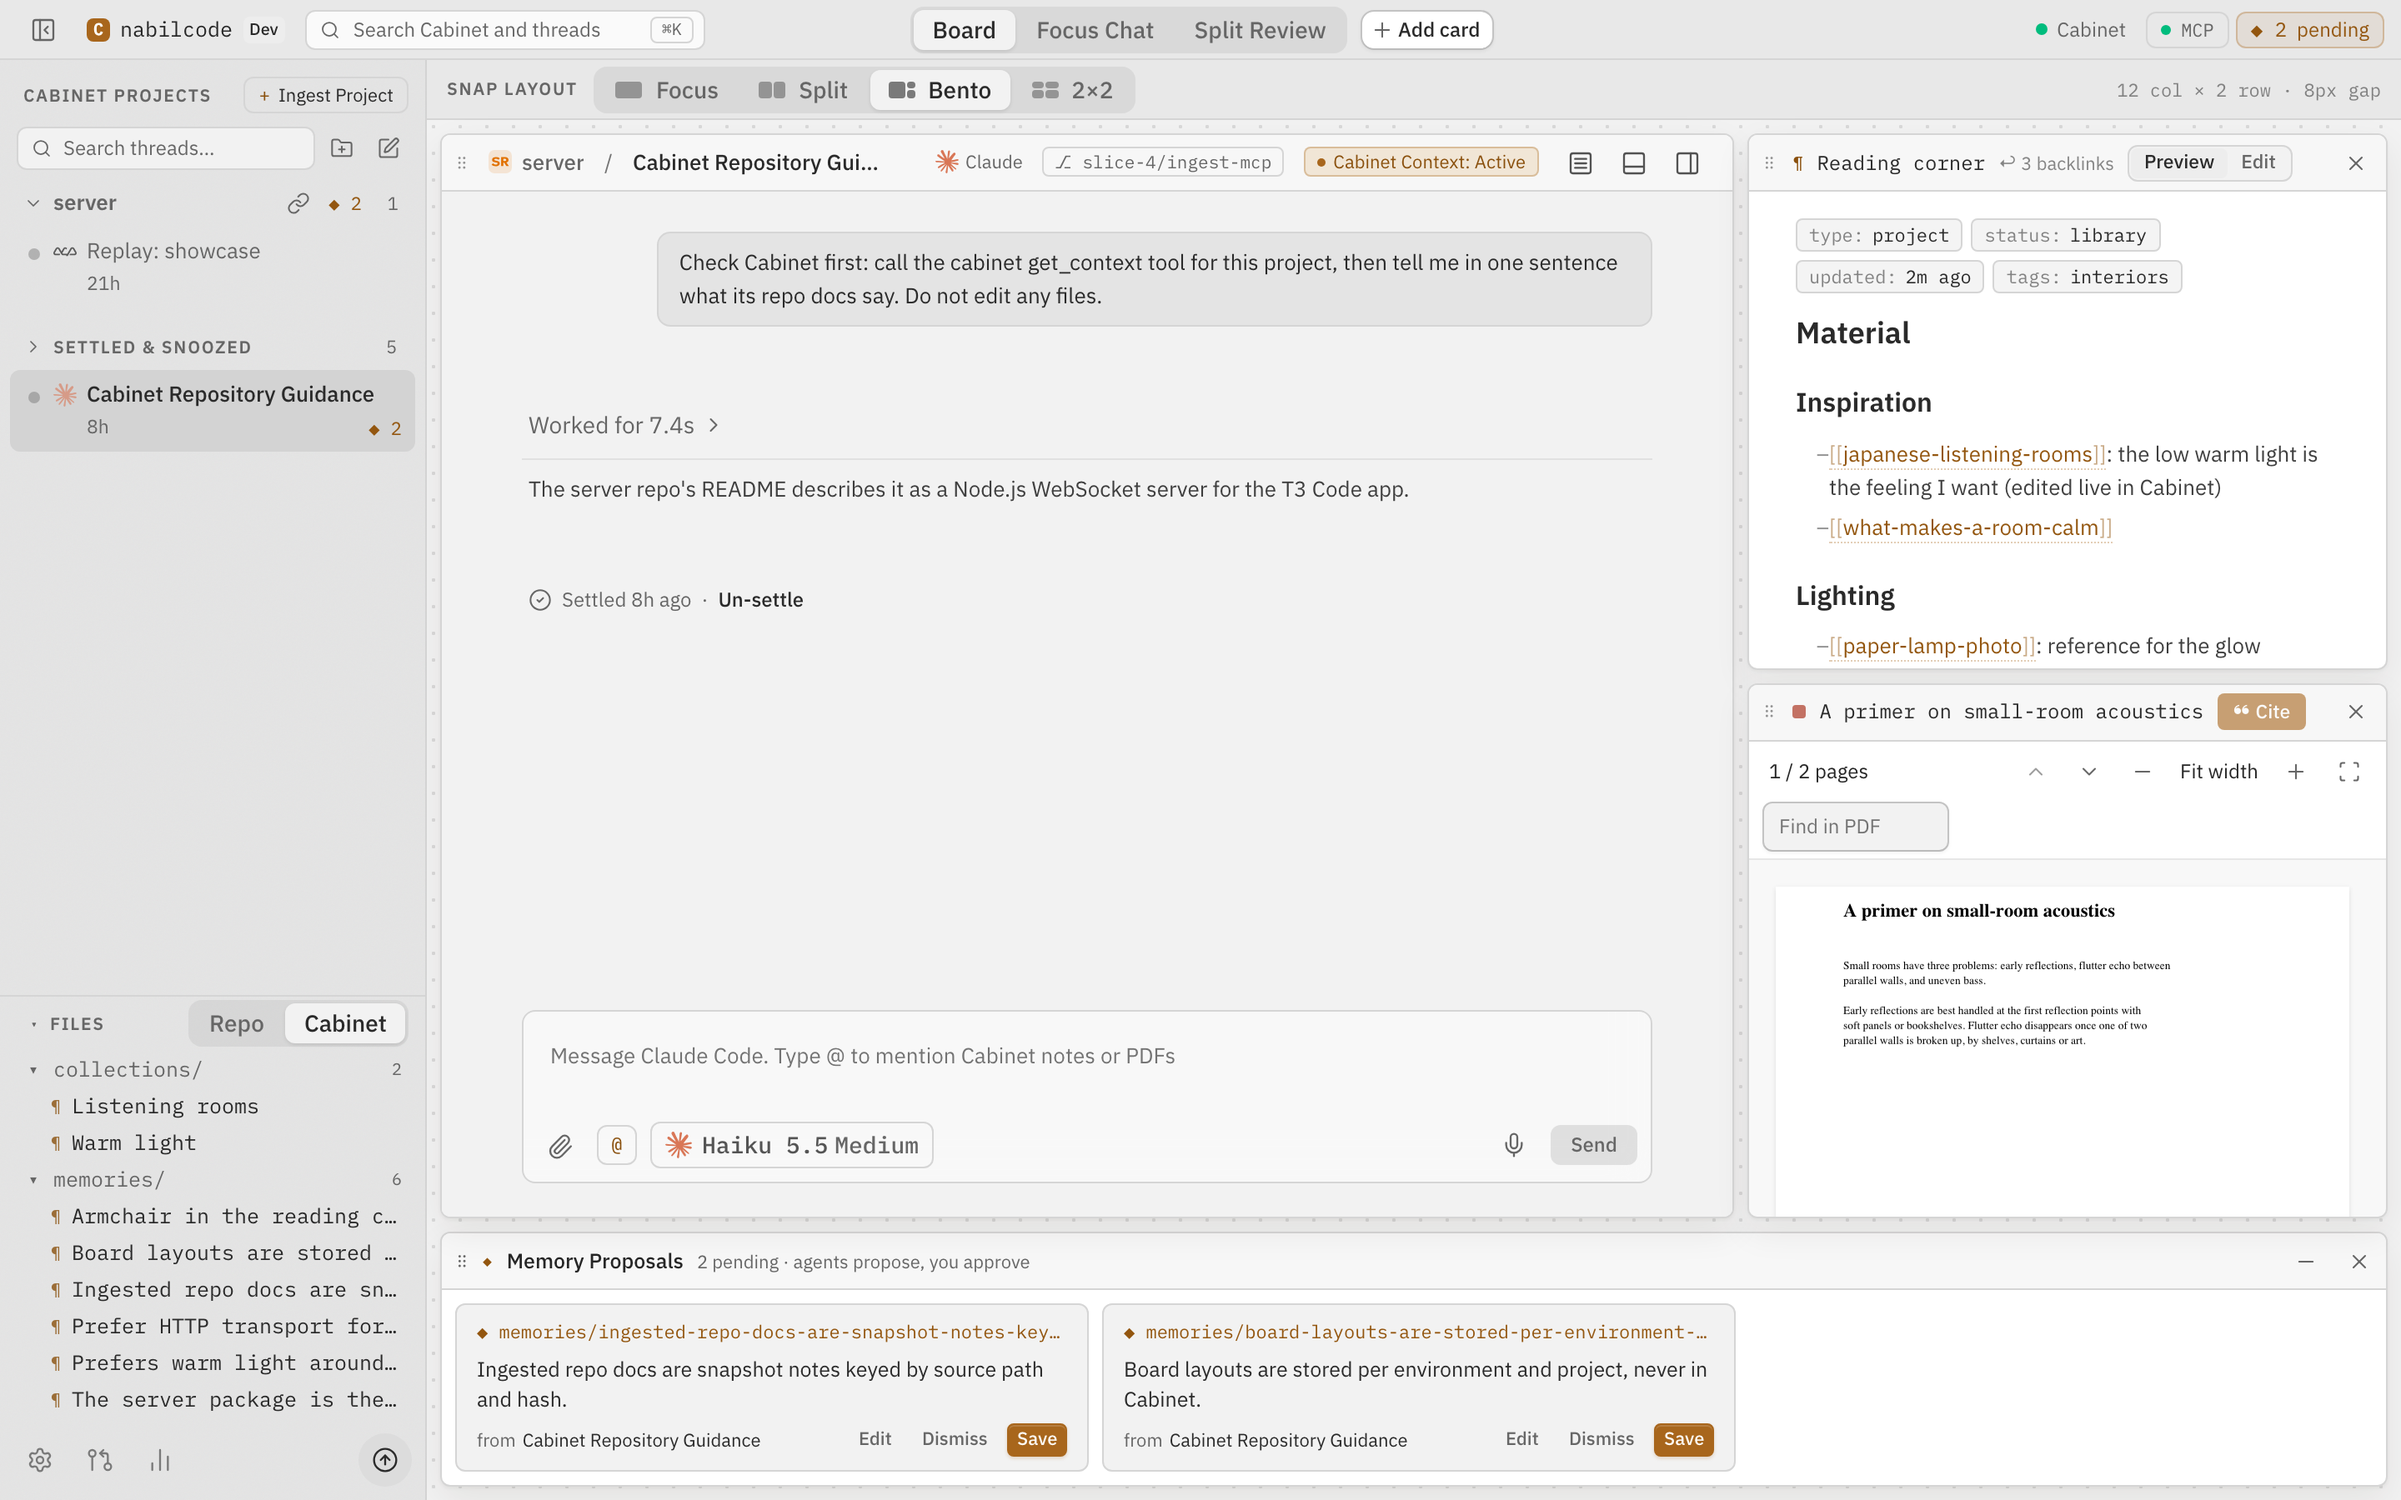
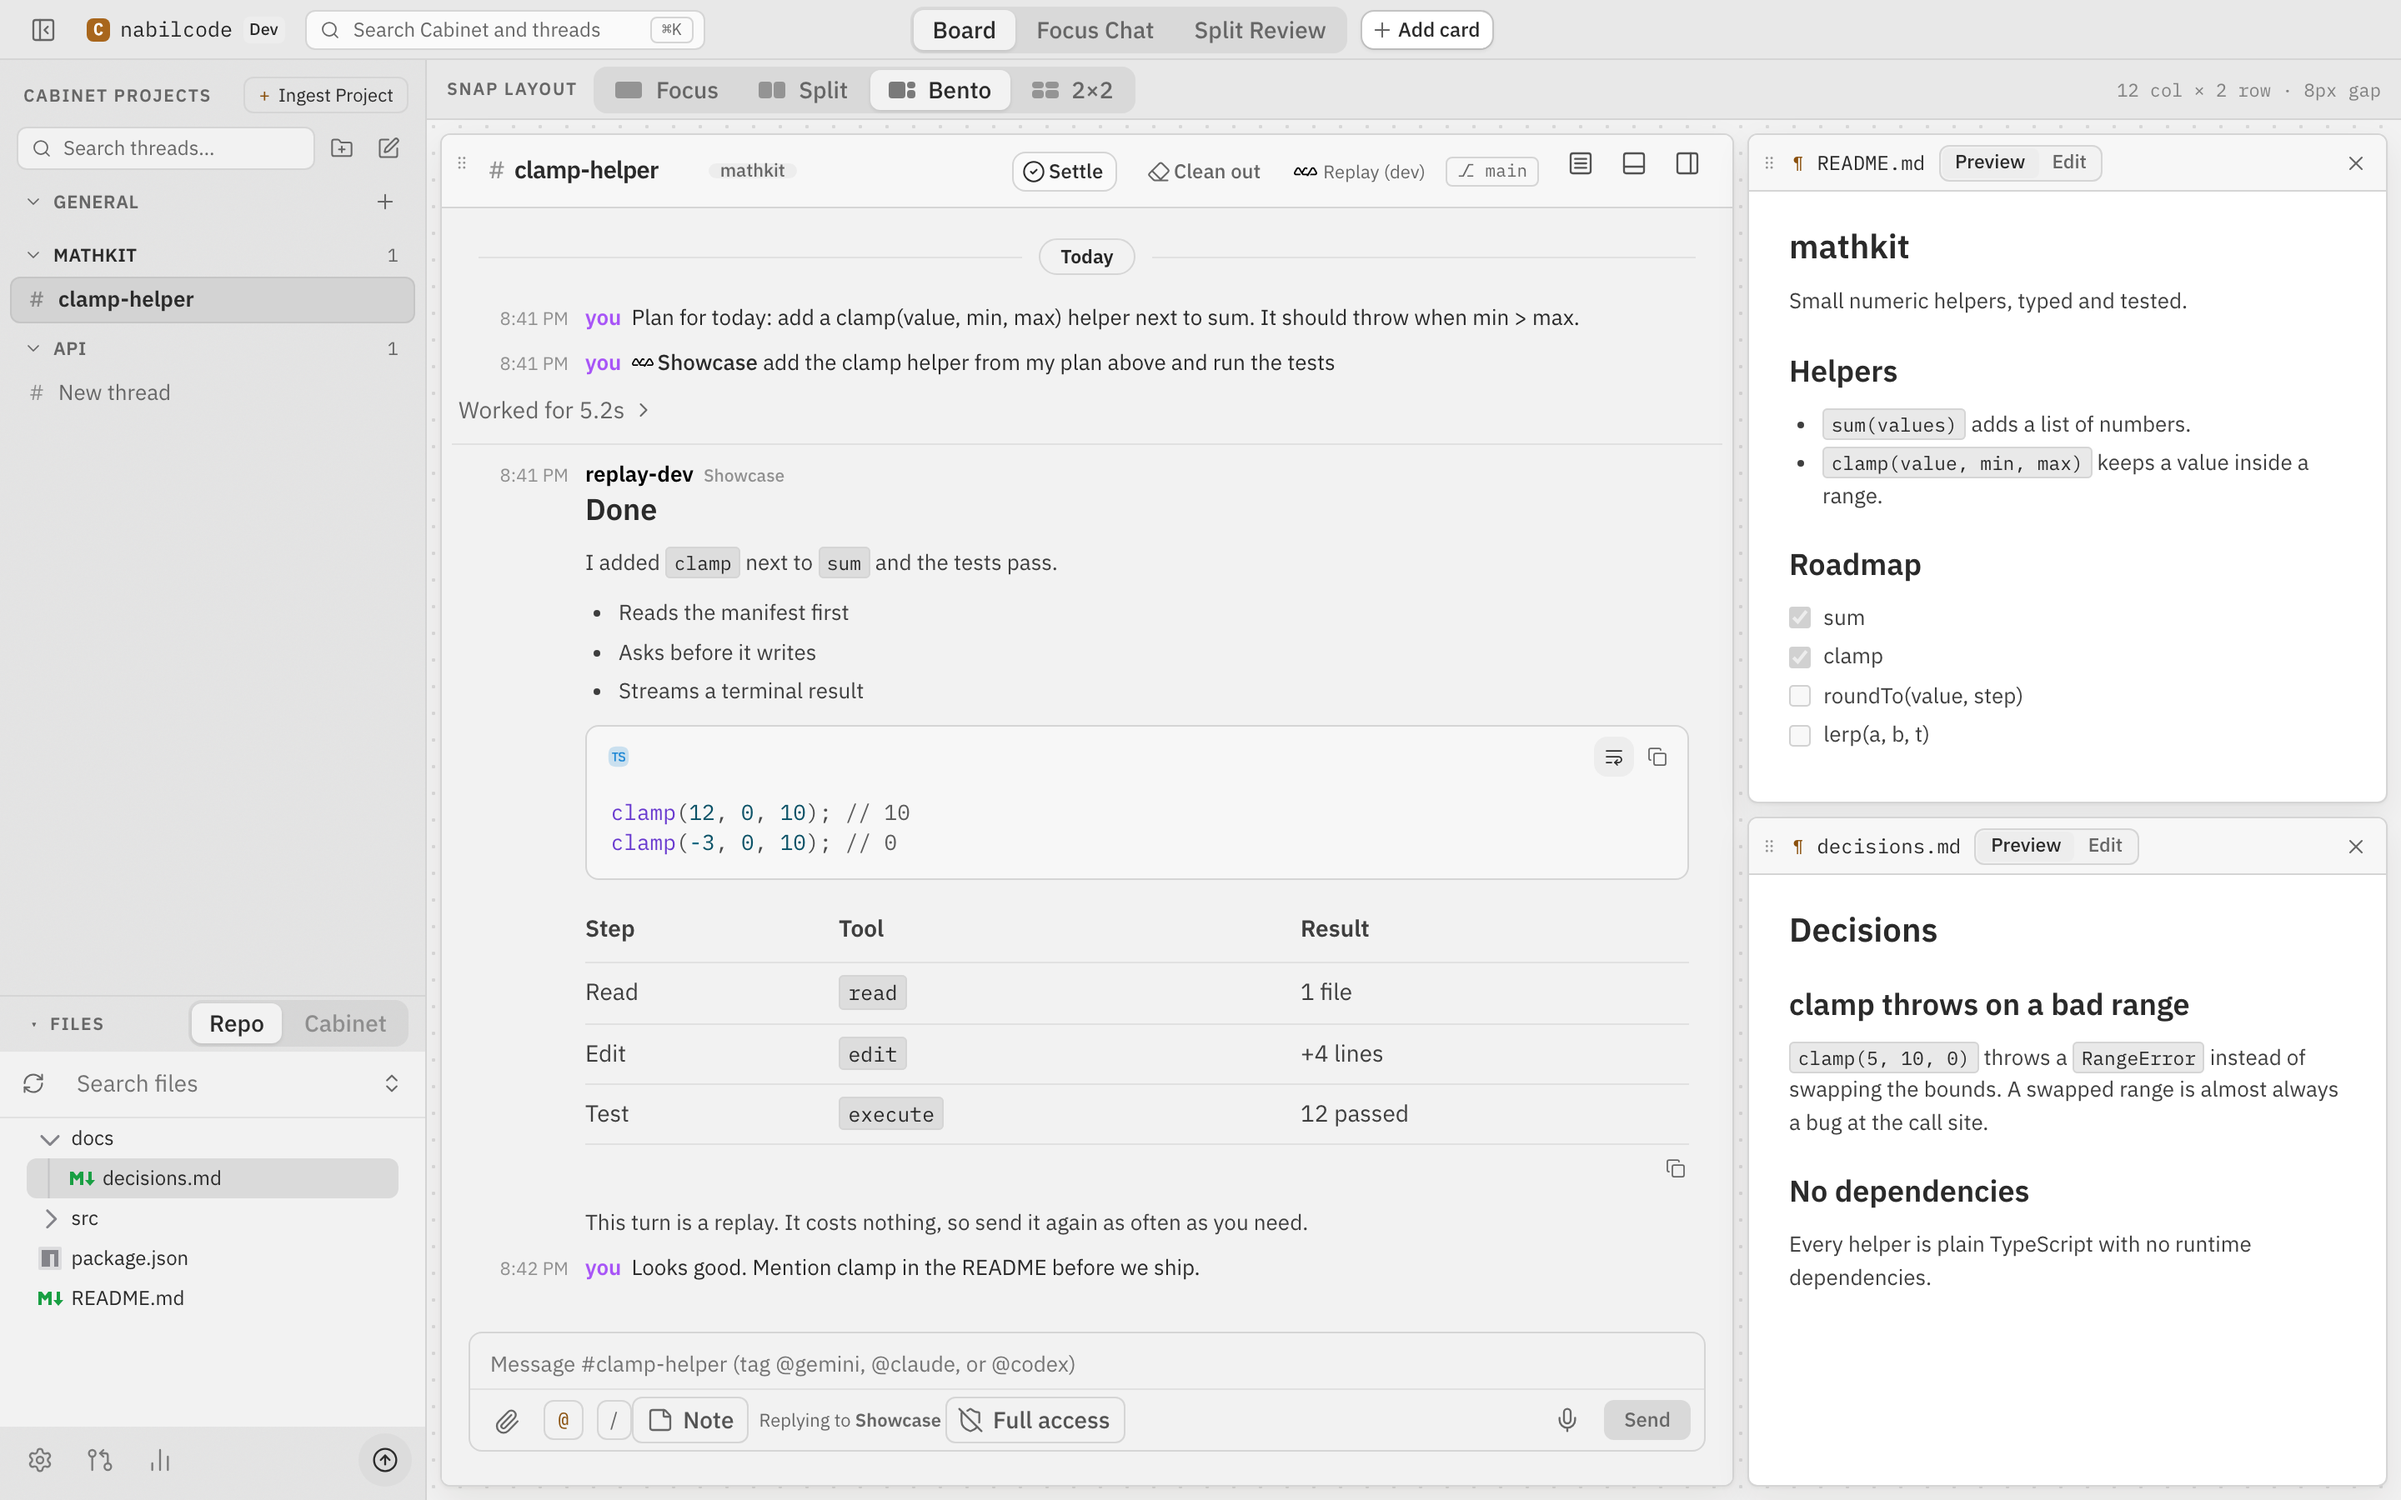
docs: refresh the README and screenshots for channels, notes, effort, and limits (#54)

diff --git a/README.md b/README.md
@@ -1,30 +1,63 @@
 <h1 align="center">nabilcode</h1>
 
-<p align="center">A desktop harness for coding agents, wired into your <a href="https://github.com/latrael/cabinet">Cabinet</a> library.</p>
+<p align="center">A desktop harness for coding agents: Slack-style channels for talking to them, a board for your docs, and memory wired into <a href="https://github.com/latrael/cabinet">Cabinet</a>.</p>
 
 <p align="center">
-  <img src="./docs/screenshots/board.png" width="100%" alt="nabilcode with a Claude thread as the main card, a Cabinet note and a Cabinet PDF beside it, the Cabinet file drawer in the sidebar, and the Memory Proposals dock along the bottom" />
+  <img src="./docs/screenshots/board.png" width="100%" alt="nabilcode board: the #clamp-helper channel as the main card with a note, an agent turn, and a later note in posting order, the README and a decisions note open as Markdown cards beside it, and the composer showing the Note toggle and Replying to the last agent" />
 </p>
 
-nabilcode runs the coding agents already installed on your machine (Claude Code, Codex, and ACP agents such as Grok, Kiro, Antigravity, and fx) and puts each project on a board next to its notes, PDFs, and diffs. Cabinet, a separate local app, holds what your agents know about a project. nabilcode reads from it, writes to it, and gives agents Cabinet's MCP tools.
+nabilcode runs the coding agents already installed on your machine: Claude Code, Codex, and ACP agents such as Antigravity, Grok, Kiro, and fx. Each project gets `#channels` where you write notes and `@` an agent when you want work done, next to a board of its notes, PDFs, and diffs. Cabinet, a separate local app, holds what your agents know about a project. nabilcode reads from it, writes to it, and gives agents Cabinet's MCP tools.
 
-It is a hard fork of [T3 Code](https://github.com/pingdotgg/t3code), reduced to the desktop app and the local web client it runs on.
+It is forked from [T3 Code](https://github.com/pingdotgg/t3code) and reduced to the desktop app and the local web client it runs on.
 
 ## What you get
 
+### Channels
+
+- **`#channels` per project.** Each project in the sidebar holds its channels. **General** channels sit outside any project for everything else.
+- **Notes by default, agents on `@`.** Type a message and it posts as a note. No model needs to be picked first. `@claude`, `@codex`, `@gemini` (or `@antigravity`), `@grok`, or `@kiro` runs that agent with the channel as context. You can also pick a specific model from the `@` menu. Every reply shows which agent wrote it.
+- **Keep talking to the last agent.** Once you've `@`'d an agent, plain messages go to that agent with the same model and effort. The composer says who you're replying to. Press **Note** to write notes again, and press it again to go back.
+- **Effort per mention.** When you `@` a model, its reasoning control (Low to Max, plus Fast where the model supports it) appears in the composer for that message.
+- **Notes stay in order.** Notes and agent turns appear in the order you posted them.
+- **Clean out a channel.** **Clean out** clears the history and ends the agent session but keeps the channel, so you can start fresh without making a new one.
+- **Settle what's done.** A finished channel shows a one-click **Settle**, and **Un-settle** brings it back. Auto-settle is off by default. When you turn it on, it never hides a channel with a result you haven't read.
+
+<p align="center">
+  <img src="./docs/screenshots/mention.png" width="49%" alt="The @ menu in the composer listing @codex, @claude, and @replay-dev, then individual models from each provider" />
+  <img src="./docs/screenshots/effort.png" width="49%" alt="A message addressed to Claude Opus 5.5 with its reasoning menu open: Low, Medium, High, Extra High, Max, and Standard or Fast" />
+</p>
+
+### The board
+
 - **A bento board per project.** Pick Focus, Split, Bento (8+4), or 2×2. Drag cards between slots and drag an edge to resize; widths snap to a 12-column grid. Each project keeps its own layout.
-- **Thread cards.** The live chat is the main card. Open other threads beside it, then click **Focus** to swap one into the main card.
-- **Notes, documents, and diffs as cards.** In the Files drawer, open Markdown, PDFs, and HTML pages from the repo, or notes and PDFs from Cabinet. PDF and HTML previews are read-only. HTML pages can load relative assets in their folder and subfolders. Use **Open document…** in the command palette to search your home folder or paste a Markdown, PDF, or HTML path into the side viewer. Diff cards show a thread's full diff.
-- **Cabinet notes that stay in sync.** `[[wikilinks]]` open the linked note. Ticking a checklist box saves it to Cabinet. Edits made in Cabinet appear in the open card.
+- **Thread cards.** The live channel is the main card. Open other channels beside it, then click **Focus** to swap one into the main card.
+- **Notes, documents, and diffs as cards.** In the Files drawer, open Markdown, PDFs, and HTML pages from the repo, or notes and PDFs from Cabinet. PDF and HTML previews are read-only, and HTML pages can load relative assets in their folder and subfolders. Use **Open document…** in the command palette to search your home folder or paste a path. Diff cards show a thread's full diff.
+- **Links in chat open on the board.** Clicking a Markdown, PDF, or HTML link in a message opens it as a card. The board moves from Focus to Split to Bento as you open more, and back again as you close them.
 - **Edit Markdown in place.** Click **Edit** on a note card and write in its formatting (**Rich**) or as raw Markdown (**Text**). Press ⌘S to save back to Cabinet or the repo. If the note changed in Cabinet while you were editing, you choose whether to reload or overwrite.
 - **Quote from PDFs.** Select text and choose **Cite to thread** to attach it to your next message, or **Save quote to Cabinet** to keep it.
+- **Terminals in the sidebar.** A project's **New terminal** button opens a shell in its root or in one of its worktrees. Each terminal has its own row, so you can leave it and come back. The shell keeps running while you're away.
+
+### Cabinet
+
+- **Cabinet notes that stay in sync.** `[[wikilinks]]` open the linked note. Ticking a checklist box saves it to Cabinet. Edits made in Cabinet appear in the open card.
 - **`@` mentions for Cabinet.** Type `@` in the composer to mention a Cabinet note. The agent gets its id and fetches the full note with Cabinet's tools.
 - **Agents that know your project.** **Ingest into Cabinet** links a repo to a Cabinet project and copies its README, AGENTS.md, CLAUDE.md, and `docs/` into Cabinet as notes. Agents then get Cabinet's MCP tools and a short project brief on their first turn.
-- **Memory proposals.** When an agent wants Cabinet to remember something, it proposes it instead of writing it. Approve, edit, or reject proposals in the dock under the board. Badges show which threads and projects have proposals waiting.
-- **Your subscriptions.** nabilcode drives the agents you are already signed in to. It does not resell tokens.
+- **Memory proposals.** When an agent wants Cabinet to remember something, it proposes it instead of writing it. Approve, edit, or reject proposals in the dock under the board. Badges show which channels and projects have proposals waiting.
 
 <p align="center">
   <img src="./docs/screenshots/cabinet-settings.png" width="80%" alt="Settings, Cabinet panel showing a connected Cabinet, agent tools active, the base URL, harness and agent tokens, MCP transport, and Test connection" />
+</p>
+
+### Agents and usage
+
+- **Your subscriptions.** nabilcode drives the agents you are already signed in to. It does not resell tokens.
+- **Limits at a glance.** **Usage → Limits** shows session and weekly quota, with reset times, for Codex, Claude, and Antigravity. Antigravity's limits come from the `agy` CLI's own sign-in in your system keychain, so macOS asks for permission the first time.
+- **Antigravity subagents.** Antigravity's subagent activity streams into the channel, nested under the step that started it.
+- **Bring your history.** The Welcome page imports Claude Code and Codex history, and Antigravity conversations started in Zed. Imported Antigravity threads continue with their full context.
+- **Private by default.** Usage telemetry is off unless you set `T3CODE_TELEMETRY_ENABLED=true`.
+
+<p align="center">
+  <img src="./docs/screenshots/usage.png" width="80%" alt="Usage, Limits tab with session and weekly quota bars and reset times for Codex and Claude" />
 </p>
 
 ## Run it
@@ -43,11 +76,17 @@ vp i
 
 If your shell can't find `vp` (nvm can reorder `PATH`), call it directly as `~/.local/share/vite-plus/bin/vp`.
 
-You also need at least one agent installed and signed in, for example `claude auth login` for Claude Code or `codex login` for Codex.
+You also need at least one agent installed and signed in, for example `claude auth login` for Claude Code, `codex login` for Codex, or signing in to the `agy` CLI for Antigravity.
 
 ### 2. Start the app
 
-To run the server and the web app:
+To run the desktop app:
+
+```bash
+vp run dev:desktop
+```
+
+To run the server and the web app instead:
 
 ```bash
 vp run dev
@@ -55,16 +94,10 @@ vp run dev
 
 Open the **pairing URL** the dev runner prints. The bare address alone won't sign a new browser in.
 
-To run the desktop app instead:
-
-```bash
-vp run dev:desktop
-```
-
 If another process already uses the default ports (5733 and 13773), shift them:
 
 ```bash
-T3CODE_PORT_OFFSET=100 vp run dev
+T3CODE_PORT_OFFSET=200 vp run dev:desktop
 ```
 
 Dev state lives in `~/.t3/dev`, separate from any installed copy.
@@ -90,12 +123,13 @@ Then in nabilcode, go to **Settings → Cabinet**. Turn Cabinet on, set the base
 
 ### 4. Try it
 
-1. In the sidebar, hover a project and choose **Ingest into Cabinet**.
-2. Start a thread and ask the agent to check Cabinet before it works.
-3. Switch the Files drawer to **Cabinet**, then open notes and PDFs as cards.
-4. Review anything the agent proposes in the **Memory Proposals** dock.
+1. In the sidebar, hover a project and choose **New channel**.
+2. Write a note with your plan, then `@claude` (or another agent) to start the work.
+3. Keep replying to the same agent, or press **Note** to jot something down without running it.
+4. Hover the project and choose **Ingest into Cabinet**, then switch the Files drawer to **Cabinet** to open notes and PDFs as cards.
+5. Review anything the agent proposes in the **Memory Proposals** dock.
 
-To watch a turn without paying for a model, pick the free **Replay (dev)** provider in the model picker. It replays recorded turns through the real pipeline.
+To watch a turn without paying for a model, `@replay-dev` in a channel. It replays recorded turns through the real pipeline for free.
 
 ## Checks
 
@@ -111,4 +145,4 @@ cd apps/web && vp exec playwright install chromium
 
 ## License
 
-[MIT](./LICENSE). nabilcode is based on T3 Code by T3 Tools.
+[MIT](./LICENSE). nabilcode is forked from [T3 Code](https://github.com/pingdotgg/t3code) by T3 Tools.
